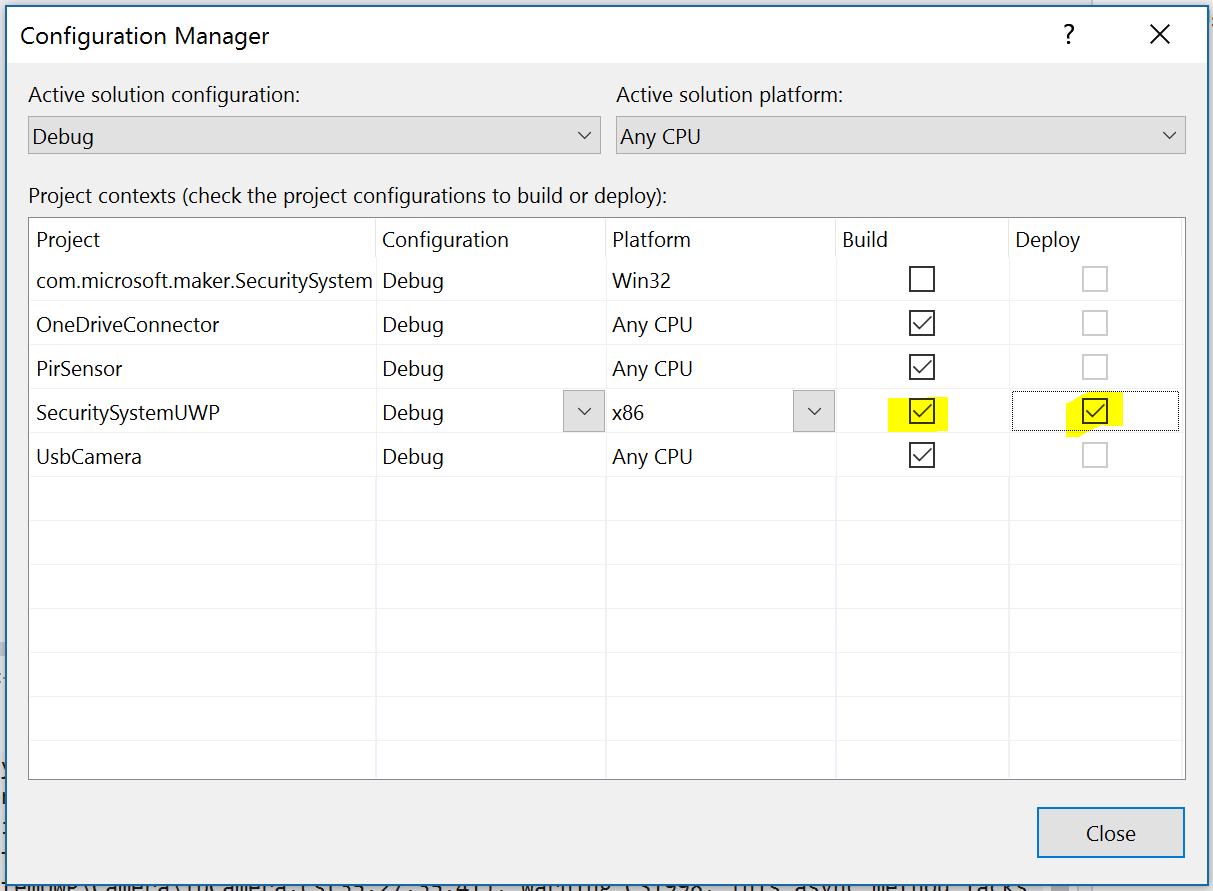
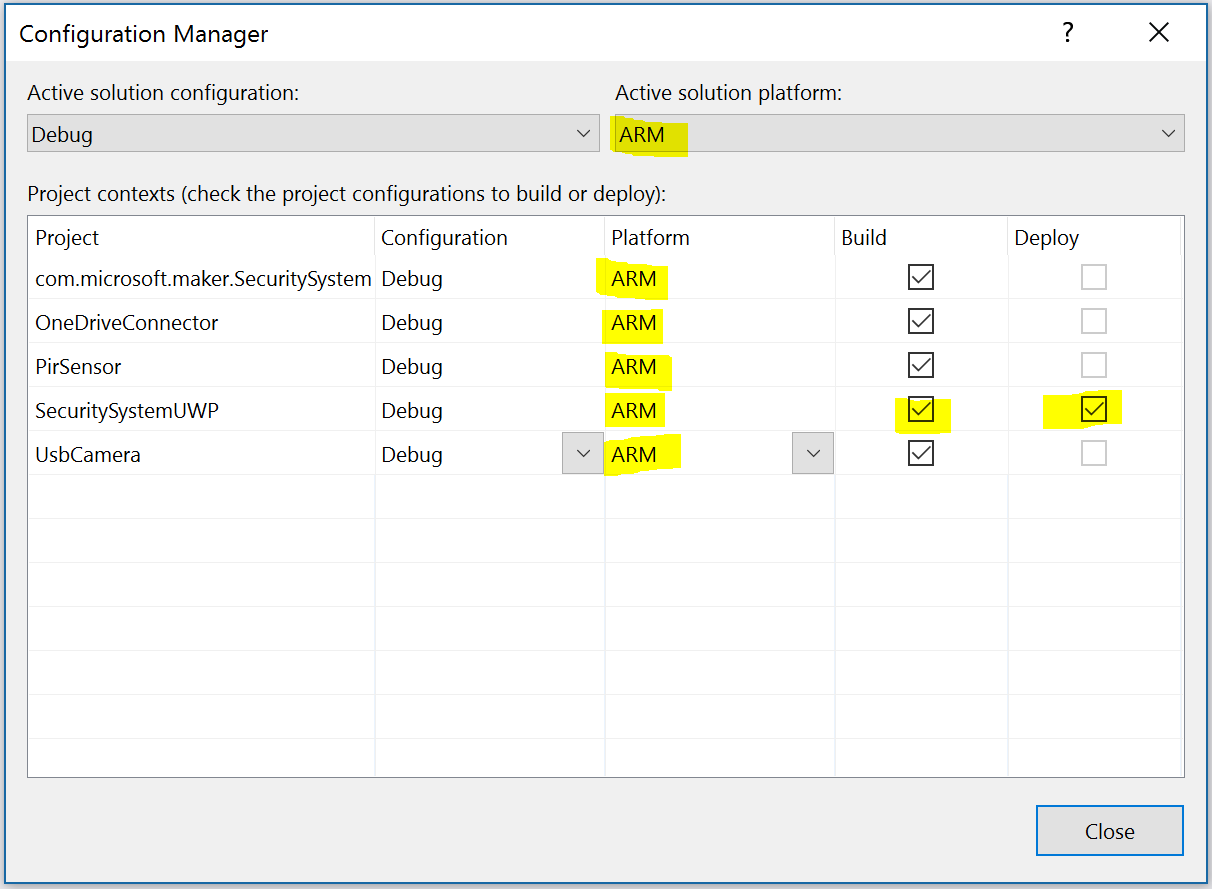
go

diff --git a/Fraud Detection/README.md b/Fraud Detection/README.md
@@ -23,7 +23,7 @@ Azure Pre-reqs
 
 1. Create a new Azure Storge account via the https://portal.azure.com portal.
 2. Open the settings for the new storage account and make a note of it's name and access key.
-3. Create a new container called *secuirtysystem-cameradrop*. This is where images will be uploaded to for processing. 
+3. Create a new container in the Storage Account called *secuirtysystem-cameradrop*. This is where images will be uploaded to for processing. 
 
 Software Setup
 ===============
@@ -36,45 +36,45 @@ The following steps should be carried out on your development machine which has 
 4. Change directory to the project root folder: `cd securitysystem`
 5. Next, get the submodules for the USB camera and the PIR sensor by running the following commands: `git submodule init` followed by `git submodule update`
 6. Open the SecuritySystemUWP.sln solution file, in the SecuritySystemUWP folder, using Visual Studio 2015.
-7. Right-click on the __com.microsoft.maker.SecuritySystem__ project and select "Build". This will download nuget packages and compile this project.
-8. Repeat the process for the __OneDriveConnector__, __PirSensor__ and __UsbCamera__ projects. 
-9. Finally repeat for the __SecuritySystemUWP__ project.
-10. *All projects should have built with out errors (some warnings about async methods might be seen - these can be ignored).*
 
-11. From the tool bar, choose "Remote Machine" as the target to deploy your application to.
+7. From the tool bar, choose "Remote Machine" as the target to deploy your application to.
 
-12. ![Choosing the right target setting](images/remotemachine.png "Choosing the right target setting")
+8. ![Choosing the right target setting](images/remotemachine.png "Choosing the right target setting")
 
-13. From the pop-up dialog, you should see the name and IP of your device has been autodetected (*minwinpc -- 192.168.1.5* in this case), click this name to select it as the target for deployment. *If your device is not shown, you can manually enter the IP address being sure to use the default authentication mode (i.e. Universal - unencrypted). The chances are however that if you don't see this appearing under "Auto Detected" that your device is not functioning correctly - ensuring it has the correct network connectivity would be first thing to check.*
+9. From the pop-up dialog, you should see the name and IP of your device has been autodetected (*minwinpc -- 192.168.1.5* in this case), __click 'select'__  to set it as the target for deployment device. *If your device is not shown, you can manually enter the IP address being sure to use the default authentication mode (i.e. Universal - unencrypted). The chances are however that if you don't see this appearing under "Auto Detected" that your device is not functioning correctly - ensuring it has the correct network connectivity would be first thing to check.*
 
-14. ![Remote Machine dialog](images/connections1.png) ![Remote Machine dialog2](images/connections2.png)
-
-15. From the top menu of Visual Studio, select Debug and ARM (if you are using a Raspberry Pi).
-16. Next click Build -> Clean Solution. Wait for the solution to clean successfully. 
-17. Select Remote Machine. You will have to enter your Remote Machine IP address and use "Universal (Unencrypted Protocol)" for Authentication Mode. *Use WindowsIoTCoreWatcher to find your IP address*.
-18. You can now deploy and test the application by pressing `F5`.
+10. ![Remote Machine dialog](images/connections1.png) ![Remote Machine dialog2](images/connections2.png)
+11. You'll now need to tell Visual Studio to compile the application for the ARM platform (which a requirement to run on the RPi). __Right-click__ on the name of your solution in Solution Explorer and choose *"Configuration Manager".* 
+12. Set the entire project to compile against ARM. Be sure to check "Debug" and "Deploy" against the SecuritySystemUWP application at the same time. This ensures that when you click to run the application, it is deployed afresh to the destination device and then attaches the remote debugger.
+13. Right-click on the __com.microsoft.maker.SecuritySystem__ project and select "Build". This will download nuget packages and compile this project.
+14. Repeat the process for the __OneDriveConnector__, __PirSensor__ and __UsbCamera__ projects. 
+15. Finally repeat for the __SecuritySystemUWP__ project. *All projects should have built with out errors (some warnings about async methods might be seen - these can be ignored).*
+16. You can now deploy and test the application by pressing `F5`.
 
 Configuring the Web App
 =======================
 
-1. Use your web browser to navigate to http://yourdeviceipaddress:8000. You will see a landing page for your application running on your device.
+1. Use your web browser to navigate to http://*yourdeviceipaddress*:8000. You will see a landing page for your application running on your device.
 2. Click on the "Settings" link fron the left hand navigation menu.
-3.  Change the Storage type to *Azure* and enter the storage account name and key you saved from earlier. Other settings can be left either blank or at their defaults.
+3. Change the Storage type to *Azure* and enter the storage account name and key you saved from earlier. Other settings can be left either blank or at their defaults.
 4. Press *Save* at the bottom of the page.
+
+
+![Configuring the App on the Device via it's web interface](images/appazuresettings.png)
 
 Testing the application
 =======================
 
-1.  Moving your hand in front of the PiR sensor will trigger the USB camera to take a photograph.
+1. Moving your hand in front of the PiR sensor will cause the USB camera to take a photograph.
 2. The image is storaged in a folder in the Photos folders on the device. You can view it at http://yourdeviceipaddress:8000/gallery.htm
-3.  Every 60 seconds, these images are uploaded to the Azure blob container you created earlier. The originals on the device are deleted.
+3. Every 60 seconds, these images are uploaded to the Azure blob container you created earlier. The originals on the device are deleted.
 
 Manually taking a photograph
 ============================
 
 If you don't want to or can't setup the PiR detector, you can make a small change to the application to trigger a photo manually.
 
-For devices with an attached monitor you can add a button to the UWPs main application:
+For devices with an attached monitor you can add a button to the UWPs main application screen:
 
 1. Open the MainPage.xaml and add a button to the canvas wherever you want.
 2. Set it's content to "Take Photo".
@@ -88,6 +88,6 @@ For devices with an attached monitor you can add a button to the UWPs main appli
 
 4. Rebuild and redeploy your application to your device. You might need to configure the application again with storage type, name and key.
 
-If your device does not have an attached screen, you will have to add a button to the homepage of the apps built-in webserver:
+If your device does not have an attached screen, you will have to add a button to the homepage of the app's built-in webserver:
 
 __TODO__ : Add method for creating button on the home htm page.
